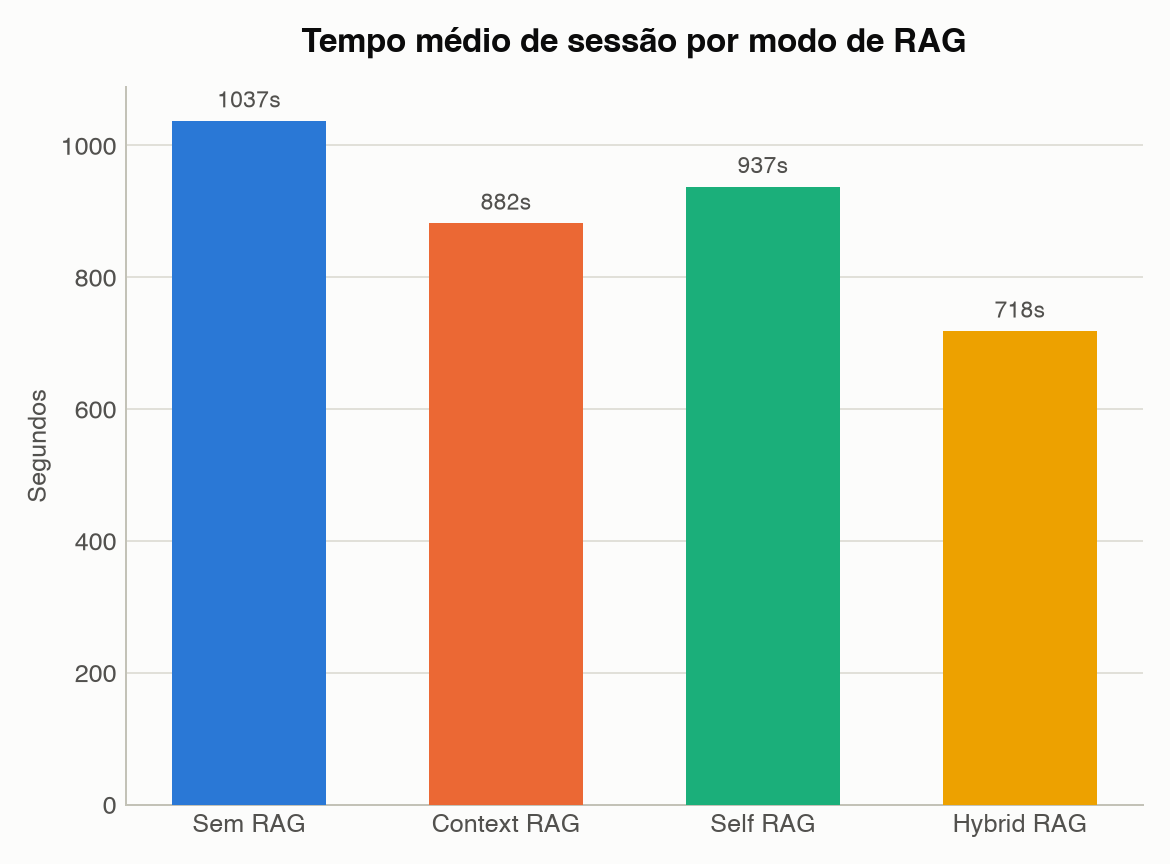
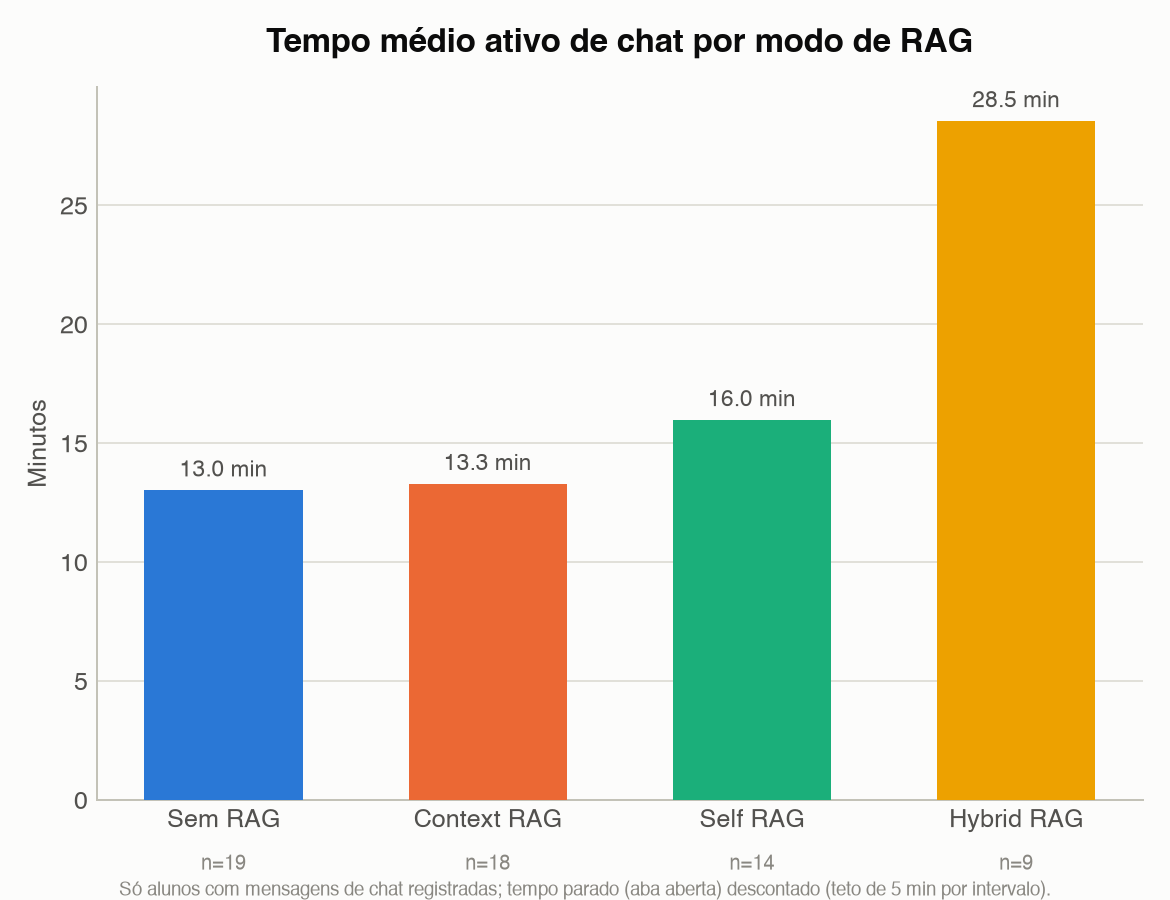
Fix session-time chart: user_analyses.total_usage_time is broken
Found that 58% of active students (43/74) have total_usage_time == 0 in
the source app, even accounts with real chat/quiz activity - it's an
incomplete instrumentation field, not a script bug. Replaced it with
active_chat_time_sec, computed from real message timestamps (gap-capped
at 5min to exclude idle time), averaged only over the 60 students who
actually chatted. Documented the caveat in the README.

diff --git a/scripts/parse_logibot.py b/scripts/parse_logibot.py
@@ -12,6 +12,7 @@ import json
 import re
 import statistics
 from collections import defaultdict
+from datetime import datetime
 from pathlib import Path
 
 ROOT = Path(__file__).resolve().parent.parent
@@ -184,6 +185,7 @@ def main():
             "rag_mode": info["rag_mode"],
             "level": sp.get("level"),
             "total_usage_time_sec": 0,
+            "active_chat_time_sec": 0,
             "total_correct_answers": 0,
             "total_wrong_answers": 0,
             "chat_session_count": 0,
@@ -195,6 +197,10 @@ def main():
     print(f"Alunos ativos (excluindo teste de carga e contas vazias): {len(students)}")
 
     # ---- user_analyses -> totais de tempo/acerto/erro -------------------------
+    # OBS: total_usage_time (timer do próprio app) está zerado para 58% dos alunos
+    # ativos, mesmo em contas com chat/quiz reais - é um dado incompleto na origem.
+    # Mantido aqui por transparência; para engajamento use active_chat_time_sec,
+    # calculado abaixo a partir dos timestamps reais das mensagens.
     for ua in user_analyses.values():
         s = students.get(ua["user_id"])
         if s is None:
@@ -308,6 +314,29 @@ def main():
 
     print(f"Mensagens de chat vinculadas a alunos ativos: {len(messages_full)} / {len(chat_messages_raw)} no dump")
 
+    # ---- active_chat_time_sec: tempo de engajamento calculado a partir dos
+    #      timestamps reais das mensagens (substitui o total_usage_time do app,
+    #      que está zerado para boa parte dos alunos). Soma os intervalos entre
+    #      mensagens consecutivas de cada chat_session, com teto de 5 min por
+    #      intervalo para não contar tempo de aba parada/inativa como uso.
+    GAP_CAP_SEC = 5 * 60
+    messages_by_session = defaultdict(list)
+    for m in messages_full:
+        messages_by_session[m["chat_session_id"]].append(m)
+
+    for session_id, msgs in messages_by_session.items():
+        msgs.sort(key=lambda m: m["timestamp"])
+        student_id = msgs[0]["student_id"]
+        s = students.get(student_id)
+        if s is None:
+            continue
+        active = 0.0
+        for a, b in zip(msgs, msgs[1:]):
+            gap = (datetime.fromisoformat(b["timestamp"].replace(" ", "T"))
+                   - datetime.fromisoformat(a["timestamp"].replace(" ", "T"))).total_seconds()
+            active += min(gap, GAP_CAP_SEC)
+        s["active_chat_time_sec"] += round(active)
+
     # ---- resumos agregados por condição -------------------------------------------
     def summarize(students_subset, quiz_subset, msg_subset, assistant_subset):
         n_students = len(students_subset)
@@ -320,12 +349,17 @@ def main():
         total_tokens = [m["tokens"]["total_tokens"] for m in assistant_subset if m["tokens"]["total_tokens"] is not None]
         total_messages = len(msg_subset)
 
+        # tempo de engajamento: só entre quem de fato trocou mensagens no chat
+        # (total_usage_time do app está zerado para 58% dos alunos - não usar)
+        chatting = [s for s in students_subset if s["chat_session_count"] > 0]
+
         return {
             "student_count": n_students,
             "quiz_total_answers": total_quiz,
             "quiz_correct_answers": total_correct,
             "quiz_accuracy_pct": round(100 * total_correct / total_quiz, 2) if total_quiz else None,
-            "avg_session_time_sec": round(statistics.mean(s["total_usage_time_sec"] for s in students_subset), 1) if n_students else None,
+            "students_with_chat_count": len(chatting),
+            "avg_active_chat_time_sec": round(statistics.mean(s["active_chat_time_sec"] for s in chatting), 1) if chatting else None,
             "avg_messages_per_student": round(total_messages / n_students, 2) if n_students else None,
             "assistant_message_count": n_assistant,
             "retrieval_rate_pct": round(100 * len(with_retrieval) / n_assistant, 2) if n_assistant else None,

diff --git a/scripts/generate_charts.py b/scripts/generate_charts.py
@@ -218,12 +218,28 @@ def main():
     save(fig, CHARTS_DIR / "quiz" / "acertos_vs_erros_por_rag.png")
 
     # ============================ charts/engajamento ============================
-    simple_bar(
-        summary, "avg_session_time_sec",
-        "Tempo médio de sessão por modo de RAG", "Segundos",
-        CHARTS_DIR / "engajamento" / "tempo_medio_sessao_por_rag.png",
-        fmt="{:.0f}s",
-    )
+    # Tempo ativo de chat (minutos) - calculado a partir dos timestamps reais das
+    # mensagens (soma dos intervalos entre mensagens, teto de 5 min cada), só
+    # entre os alunos que de fato conversaram. O campo total_usage_time do app
+    # está zerado para 58% dos alunos ativos e não é usado aqui.
+    fig, ax = new_fig(6.5, 5.0)
+    xs = list(range(len(RAG_ORDER)))
+    heights = [(by_mode[m]["avg_active_chat_time_sec"] or 0) / 60 for m in RAG_ORDER]
+    bars = ax.bar(xs, heights, width=0.6, color=[RAG_COLORS[m] for m in RAG_ORDER], zorder=3)
+    ax.set_xticks(xs)
+    ax.set_xticklabels([RAG_LABELS[m] for m in RAG_ORDER])
+    ax.set_ylabel("Minutos")
+    ax.set_title("Tempo médio ativo de chat por modo de RAG", fontsize=13,
+                  fontweight="bold", color=INK_PRIMARY, pad=14)
+    bar_labels(ax, bars, "{:.1f} min")
+    for i, m in enumerate(RAG_ORDER):
+        n = by_mode[m]["students_with_chat_count"]
+        ax.annotate(f"n={n}", xy=(i, 0), xytext=(0, -22), textcoords="offset points",
+                    ha="center", va="top", fontsize=8, color=INK_MUTED)
+    fig.text(0.5, 0.005,
+              "Só alunos com mensagens de chat registradas; tempo parado (aba aberta) descontado (teto de 5 min por intervalo).",
+              ha="center", fontsize=7.5, color=INK_MUTED)
+    save(fig, CHARTS_DIR / "engajamento" / "tempo_medio_sessao_por_rag.png")
 
     simple_bar(
         summary, "avg_messages_per_student",

diff --git a/README.md b/README.md
@@ -27,7 +27,7 @@ Cada aluno conversou livremente com o chatbot e respondeu quizzes de lógica de 
 Os dados brutos vêm de um dump PostgreSQL (`logibot-db.sql`, não versionado) extraído para dois arquivos JSON em `data/`:
 
 - **`data/logibot-data.json`** — dados prontos para gráficos, sem texto de mensagens:
-  - `students[]`: um registro por aluno ativo (74 no total) — instituição, dia, turma, grupo, `rag_mode`, tempo de uso, acertos/erros, contagem de mensagens, tópicos abordados.
+  - `students[]`: um registro por aluno ativo (74 no total) — instituição, dia, turma, grupo, `rag_mode`, tempo ativo de chat, acertos/erros, contagem de mensagens, tópicos abordados. Veja a ressalva sobre `total_usage_time_sec` abaixo.
   - `quiz_answers[]`: uma linha por pergunta de quiz respondida (assunto, opção escolhida, acerto/erro).
   - `chat_message_metrics[]`: uma linha por resposta do assistente (provider, nº de chunks recuperados, score de recuperação, tempo de resposta, tokens) — sem o texto da mensagem.
   - `summary_by_condition[]` / `summary_by_condition_and_day[]`: métricas já agregadas por modo de RAG (e por dia), prontas para gráfico de barras comparativo.
@@ -46,6 +46,12 @@ python3 scripts/parse_logibot.py
 
 Sobram **74 alunos reais** distribuídos nos 4 dias × 4 grupos.
 
+### Ressalva: tempo de uso
+
+O campo `total_usage_time` do próprio app (tabela `user_analyses`) está **zerado em 58% dos alunos ativos** (43 de 74) — inclusive contas com chat e quiz reais registrados. É uma falha de instrumentação na origem, não um problema na extração. Por isso, `students[].total_usage_time_sec` é mantido no JSON só por transparência, mas **não é usado nos gráficos**.
+
+Em vez disso, `students[].active_chat_time_sec` é calculado por [`scripts/parse_logibot.py`](scripts/parse_logibot.py) a partir dos timestamps reais das mensagens: soma os intervalos entre mensagens consecutivas de cada sessão de chat, com teto de 5 min por intervalo (para não contar tempo de aba parada/inativa como uso). Esse cálculo só é possível para os 60 alunos que têm sessão de chat registrada — os outros 14 alunos ativos só fizeram quiz, sem chat.
+
 ## Gráficos
 
 Gerados a partir de `data/logibot-data.json` por [`scripts/generate_charts.py`](scripts/generate_charts.py) e salvos como PNG em `charts/`, organizados por tema. As 4 condições usam sempre a mesma cor em todos os gráficos (azul = Sem RAG, laranja = Context RAG, verde = Self RAG, amarelo = Hybrid RAG), para facilitar a comparação visual entre eles.
@@ -57,7 +63,7 @@ Gerados a partir de `data/logibot-data.json` por [`scripts/generate_charts.py`](
 - `acertos_vs_erros_por_rag.png` — volume de respostas corretas vs incorretas
 
 ### [`charts/engajamento/`](charts/engajamento/) — uso da plataforma
-- `tempo_medio_sessao_por_rag.png` — tempo médio de sessão (segundos)
+- `tempo_medio_sessao_por_rag.png` — tempo médio ativo de chat, em minutos (só entre quem conversou; veja a ressalva acima)
 - `mensagens_por_aluno_por_rag.png` — mensagens médias trocadas por aluno
 - `alunos_por_condicao_e_dia.png` — nº de alunos ativos por condição × dia (tamanho de amostra)
 
